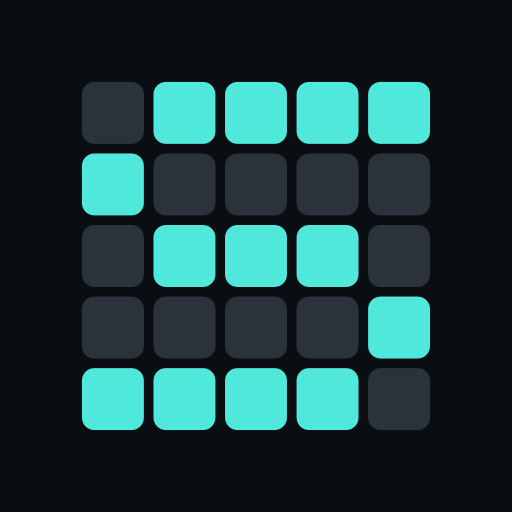
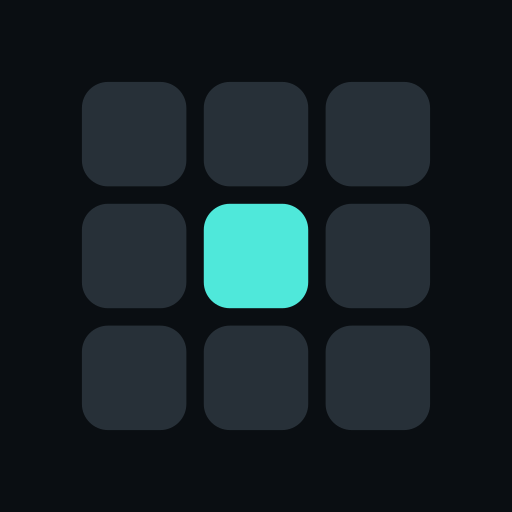
cut a new mark: a sudoku box with one cell lit

diff --git a/tools/make-branding.py b/tools/make-branding.py
@@ -2,9 +2,18 @@
 """
 Every branding asset, generated from one description of the mark.
 
-The mark is a five by five sudoku grid whose filled cells spell an S. It is the app name and
-the app subject in one shape, it survives being shrunk to a launcher icon, and it is drawn
-rather than photographed so there is no resampling and no metadata to strip.
+The mark is a sudoku box with one cell filled: the board, and the digit that just went in.
+
+It used to be a five by five grid whose filled cells spelled an S, and it did not work. A
+launcher icon is 48dp, and twenty five cells put each one at 3.6dp with a 1.5dp gap, which is
+under the size at which a shape reads: from a foot away it dithered into a texture. The S did
+not survive that either, because every cell had the same weight, so the eye saw a checkerboard
+and stopped looking. And five by five is not sudoku. Sudoku is nine by nine cut into three by
+three boxes, and the box is the unit that reads at any size.
+
+So the mark is one box, nine cells, one of them lit. Nine cells put each one at 6.8dp, the lit
+cell is the only colour in the frame so the eye goes straight to it, and what it says is what
+the app promises: one clear digit at a time, worked out rather than guessed.
 
 Run: python3 tools/make-branding.py
 """
@@ -23,20 +32,23 @@ PAPER = "#E8F0F5"
 MUTED = "#7D95A5"
 
 MARK = [
-    ".####",
-    "#....",
-    ".###.",
-    "....#",
-    "####.",
+    "...",
+    ".#.",
+    "...",
 ]
 
 
-def cells(side, origin_x, origin_y, gap_ratio=0.11):
-    """Returns (filled, empty) rounded square paths for the mark at a given size."""
+def cells(side, origin_x, origin_y, gap_ratio=0.10):
+    """
+    Returns (filled, empty) rounded square paths for the mark at a given size.
+
+    The corner radius is a quarter of the cell, which is the rounding the board itself uses,
+    so the icon and the thing it stands for are drawn by the same hand.
+    """
     n = len(MARK)
     gap = side * gap_ratio / (n - 1)
     cell = (side - gap * (n - 1)) / n
-    r = cell * 0.2
+    r = cell * 0.25
     on, off = [], []
     for row, line in enumerate(MARK):
         for col, ch in enumerate(line):
@@ -54,8 +66,17 @@ def cells(side, origin_x, origin_y, gap_ratio=0.11):
 
 
 def vector_drawable(on_colour, off_colour, off_alpha):
-    """The adaptive icon foreground, sized so a circular mask cannot bite the mark."""
-    on, off = cells(side=46, origin_x=31, origin_y=31)
+    """
+    The adaptive icon foreground, sized so a circular mask cannot bite the mark.
+
+    Fifty two units of a hundred and eight, centred. Not the sixty six the safe zone allows:
+    that number is a circle's diameter and the mark is a square, so a mark drawn to fill it
+    has its corners shaved off by a circular launcher. Measured from the geometry, the corner
+    of a fifty six unit mark reaches 38.4 units from the centre against a mask radius of 36,
+    and at fifty two it reaches 35.6 and survives. Every cell still lands at 6.9dp on a 48dp
+    icon, which is well above the size at which a rounded square stops reading as one.
+    """
+    on, off = cells(side=52, origin_x=28, origin_y=28)
     lines = [
         '<?xml version="1.0" encoding="utf-8"?>',
         '<vector xmlns:android="http://schemas.android.com/apk/res/android"',
@@ -75,6 +96,55 @@ def vector_drawable(on_colour, off_colour, off_alpha):
     return "\n".join(lines) + "\n"
 
 
+def monochrome_drawable():
+    """
+    The themed icon, which the system tints with the wallpaper and keeps only the shape of.
+
+    So the quiet cells are drawn as outlines rather than filled. Filled, they would weigh the
+    same as the lit one, the tint would flatten all nine into one grey block, and the single
+    idea in the mark would be the thing that got lost.
+    """
+    n = len(MARK)
+    side, origin, gap_ratio = 52.0, 28.0, 0.10
+    gap = side * gap_ratio / (n - 1)
+    cell = (side - gap * (n - 1)) / n
+    stroke = cell * 0.14
+    inset = stroke / 2
+    on, _ = cells(side=side, origin_x=origin, origin_y=origin)
+
+    lines = [
+        '<?xml version="1.0" encoding="utf-8"?>',
+        '<vector xmlns:android="http://schemas.android.com/apk/res/android"',
+        '    android:width="108dp"',
+        '    android:height="108dp"',
+        '    android:viewportWidth="108"',
+        '    android:viewportHeight="108">',
+    ]
+    for row, text in enumerate(MARK):
+        for col, ch in enumerate(text):
+            if ch == "#":
+                continue
+            x = origin + col * (cell + gap) + inset
+            y = origin + row * (cell + gap) + inset
+            side_in = cell - stroke
+            r = side_in * 0.25
+            d = (
+                f"M{x + r:.2f},{y:.2f} h{side_in - 2 * r:.2f} "
+                f"a{r:.2f},{r:.2f} 0 0 1 {r:.2f},{r:.2f} v{side_in - 2 * r:.2f} "
+                f"a{r:.2f},{r:.2f} 0 0 1 -{r:.2f},{r:.2f} h-{side_in - 2 * r:.2f} "
+                f"a{r:.2f},{r:.2f} 0 0 1 -{r:.2f},-{r:.2f} v-{side_in - 2 * r:.2f} "
+                f"a{r:.2f},{r:.2f} 0 0 1 {r:.2f},-{r:.2f} z"
+            )
+            lines.append(
+                f'    <path android:strokeColor="#FFFFFFFF" android:strokeWidth="{stroke:.2f}" '
+                f'android:fillColor="#00000000" android:pathData="{d}" />'
+            )
+    for d in on:
+        lines.append(f'    <path android:fillColor="#FFFFFFFF" android:pathData="{d}" />')
+    lines.append("</vector>")
+    return "\n".join(lines) + "\n"
+
+
 def svg_icon(size=512, pad_ratio=0.16, background=INK):
     """The store icon. No mask here, so the mark can use more of the square."""
     side = size * (1 - 2 * pad_ratio)
@@ -86,7 +156,7 @@ def svg_icon(size=512, pad_ratio=0.16, background=INK):
         f'<rect width="{size}" height="{size}" fill="{background}"/>',
     ]
     for d in off:
-        out.append(f'<path d="{d}" fill="{SLATE}" fill-opacity="0.28"/>')
+        out.append(f'<path d="{d}" fill="{SLATE}" fill-opacity="0.26"/>')
     for d in on:
         out.append(f'<path d="{d}" fill="{TEAL}"/>')
     out.append("</svg>")
@@ -116,7 +186,7 @@ def svg_feature(width=1024, height=500):
         f'<rect width="{width}" height="{height}" fill="{INK}"/>',
     ]
     for d in off:
-        out.append(f'<path d="{d}" fill="{SLATE}" fill-opacity="0.28"/>')
+        out.append(f'<path d="{d}" fill="{SLATE}" fill-opacity="0.26"/>')
     for d in on:
         out.append(f'<path d="{d}" fill="{TEAL}"/>')
     left = width * 0.09 + mark_side + width * 0.07
@@ -172,9 +242,8 @@ def check_clean(path):
 
 def main():
     write(os.path.join(RES, "drawable/ic_launcher_foreground.xml"),
-          vector_drawable(TEAL, SLATE, "0.28"))
-    write(os.path.join(RES, "drawable/ic_launcher_monochrome.xml"),
-          vector_drawable("#FFFFFFFF", "#FFFFFFFF", "0.30"))
+          vector_drawable(TEAL, SLATE, "0.26"))
+    write(os.path.join(RES, "drawable/ic_launcher_monochrome.xml"), monochrome_drawable())
 
     write(os.path.join(BRANDING, "icon.svg"), svg_icon())
     write(os.path.join(BRANDING, "wordmark.svg"), svg_wordmark())
